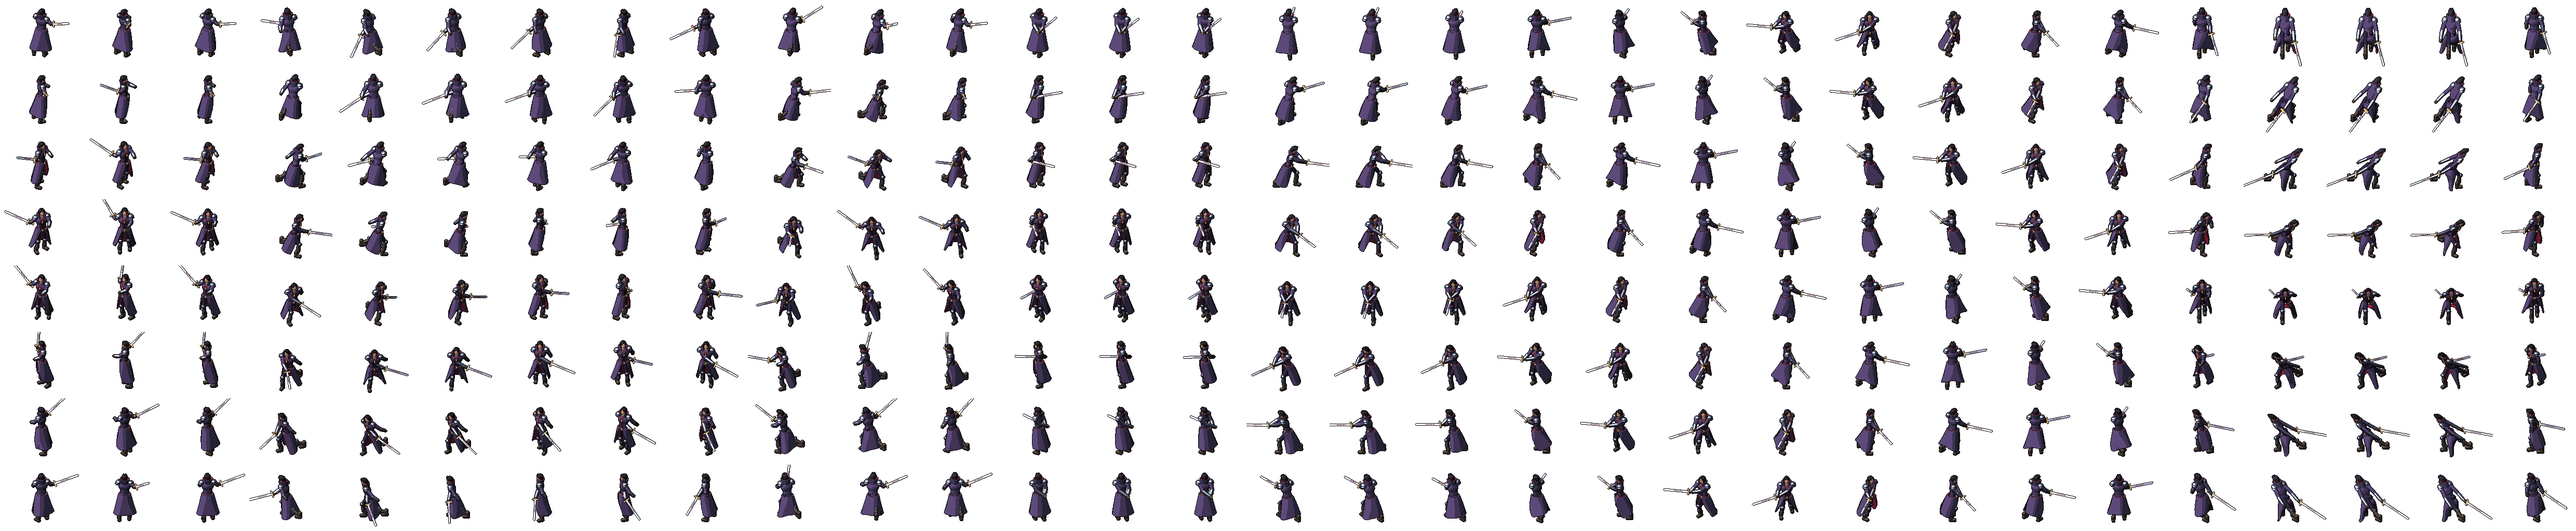
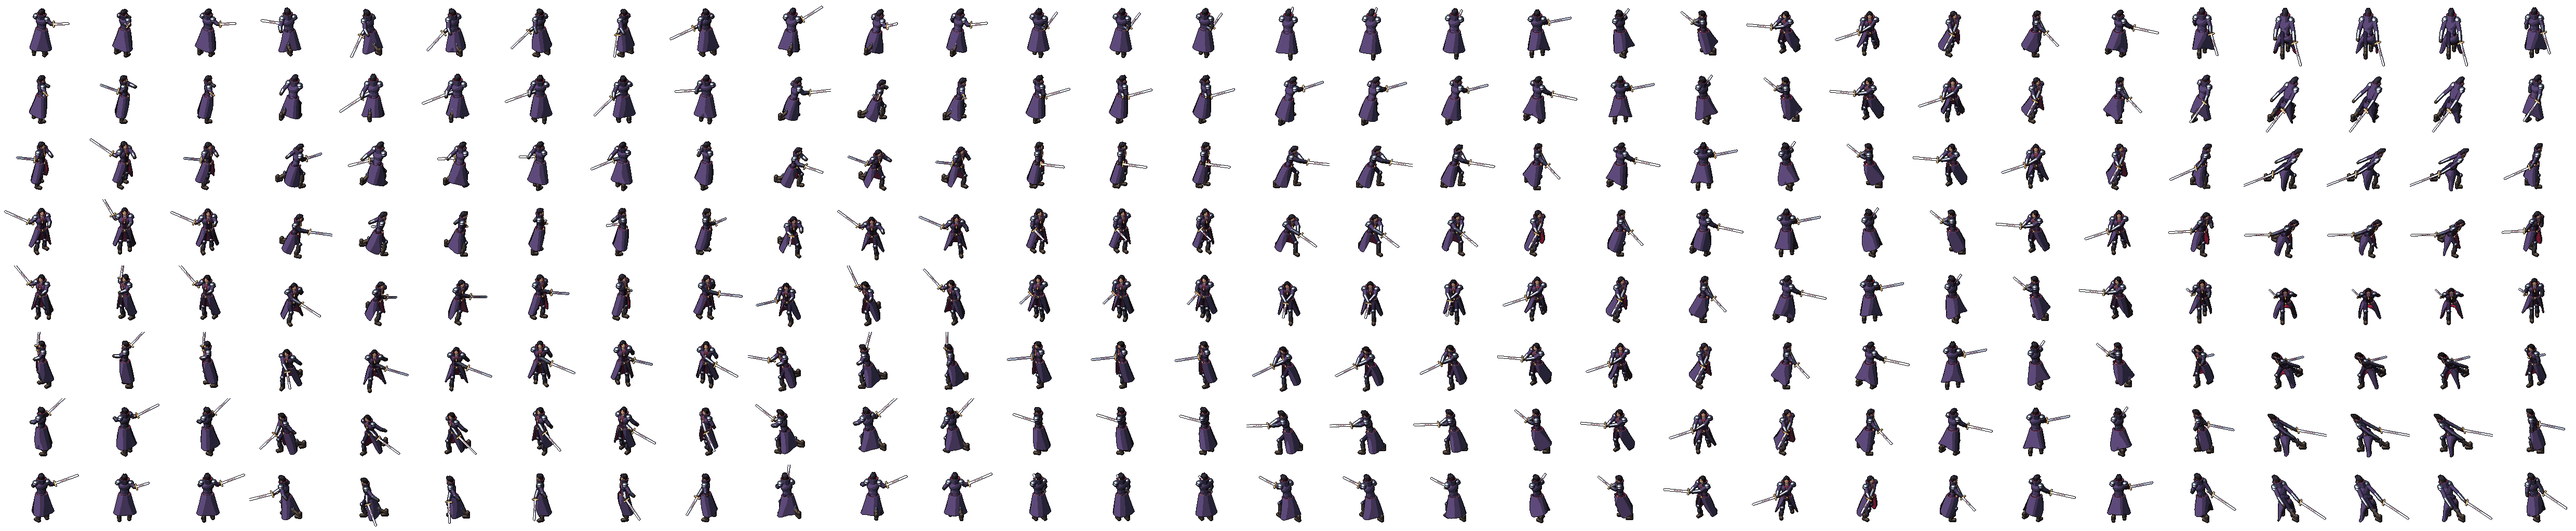
fix: preparação da estocada com as mãos ao lado do quadril
As duas mãos ficavam atrás das costas nas direções de costas para a câmera; agora o recuo
fica ao lado do quadril, na frente do corpo, e a lâmina mais alinhada com a mira.

Claude-Session: https://claude.ai/code/session_01H3eLzkTyLEe8ykhRwrdDK4

diff --git a/tools/pixel_art/virgil/combat.py b/tools/pixel_art/virgil/combat.py
@@ -112,11 +112,11 @@ def thrust(t):
     back = keys([(0, 0.4), (0.38, 1.0), (0.58, 0.0), (1.0, 0.0)], t)
     dy = stance(-0.10 - 0.25 * k, 0.30 + 0.10 * k, 0.15 + 0.55 * k, 0.40 + 0.35 * k, spread=0.04)
     # duas mãos no cabo: recua junto ao quadril e empurra a lâmina reta para a frente
-    hand = lerp([-0.16, 1.10, -0.14 - 0.14 * back], [0.0, 1.22, 0.58], k)
+    hand = lerp([-0.24, 1.10, 0.10 - 0.06 * back], [0.0, 1.22, 0.58], k)   # recuo ao lado do quadril, na frente do corpo
     sw = sdir(keys([(0, -8), (0.58, 0), (1, 0)], t), keys([(0, 6), (0.38, 4), (0.58, -4), (1, -6)], t))
     arm("R", hand, out=0.06, down=0.05 * (1 - k))
     arm("L", hand - sw * 0.10 + [0.01, 0, 0], out=0.07, down=0.05 * (1 - k))
-    pose(dy - 0.06 * k, yaw=keys([(0, -28), (0.38, -34), (0.58, -8), (1.0, -10)], t), lean=0.04 + 0.26 * k,
+    pose(dy - 0.06 * k, yaw=keys([(0, -16), (0.38, -20), (0.58, -6), (1.0, -8)], t), lean=0.04 + 0.26 * k,
          sword=sw,
          coat=dict(coat_drag=0.12 * k, coat_flap=0.02, coat_ph=t * 5, coat_lift=0.10 * k))
 
